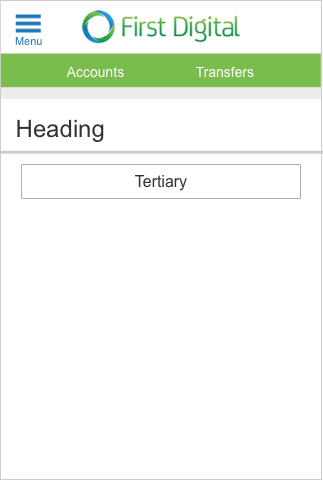
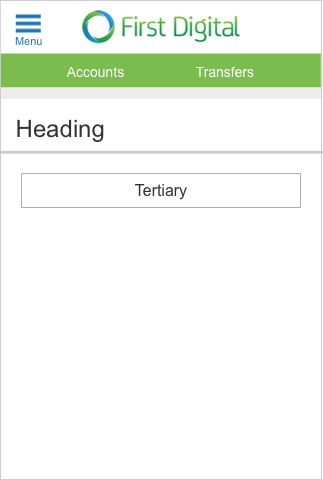
page patterns update

Changed region(s): [[0.0619, 0.3438, 0.9288, 0.4375], [0.0619, 0.3438, 0.0929, 0.375]]

diff --git a/upgrade/lb-layout.html b/upgrade/lb-layout.html
@@ -437,7 +437,7 @@
 
           <h3>Typical application page with a primary action shown</h3>
           <hr />
-          <p> The button should be shown if there is only one primary button. Else should be shown on context of the content on the page.</p>
+          <p> The button should be shown if there is only one primary button. Else should be shown on context of the content on the page. At XS, primary button becomes tertiary button and takes the full width of the device. </p>
           <p><img class="img-responsive" src="./img/hierarchy-p-lms.png" alt="" ></p>
           <p><img class="img-responsive" src="./img/hierarchy-p-xs.png" alt="" ></p>
 
